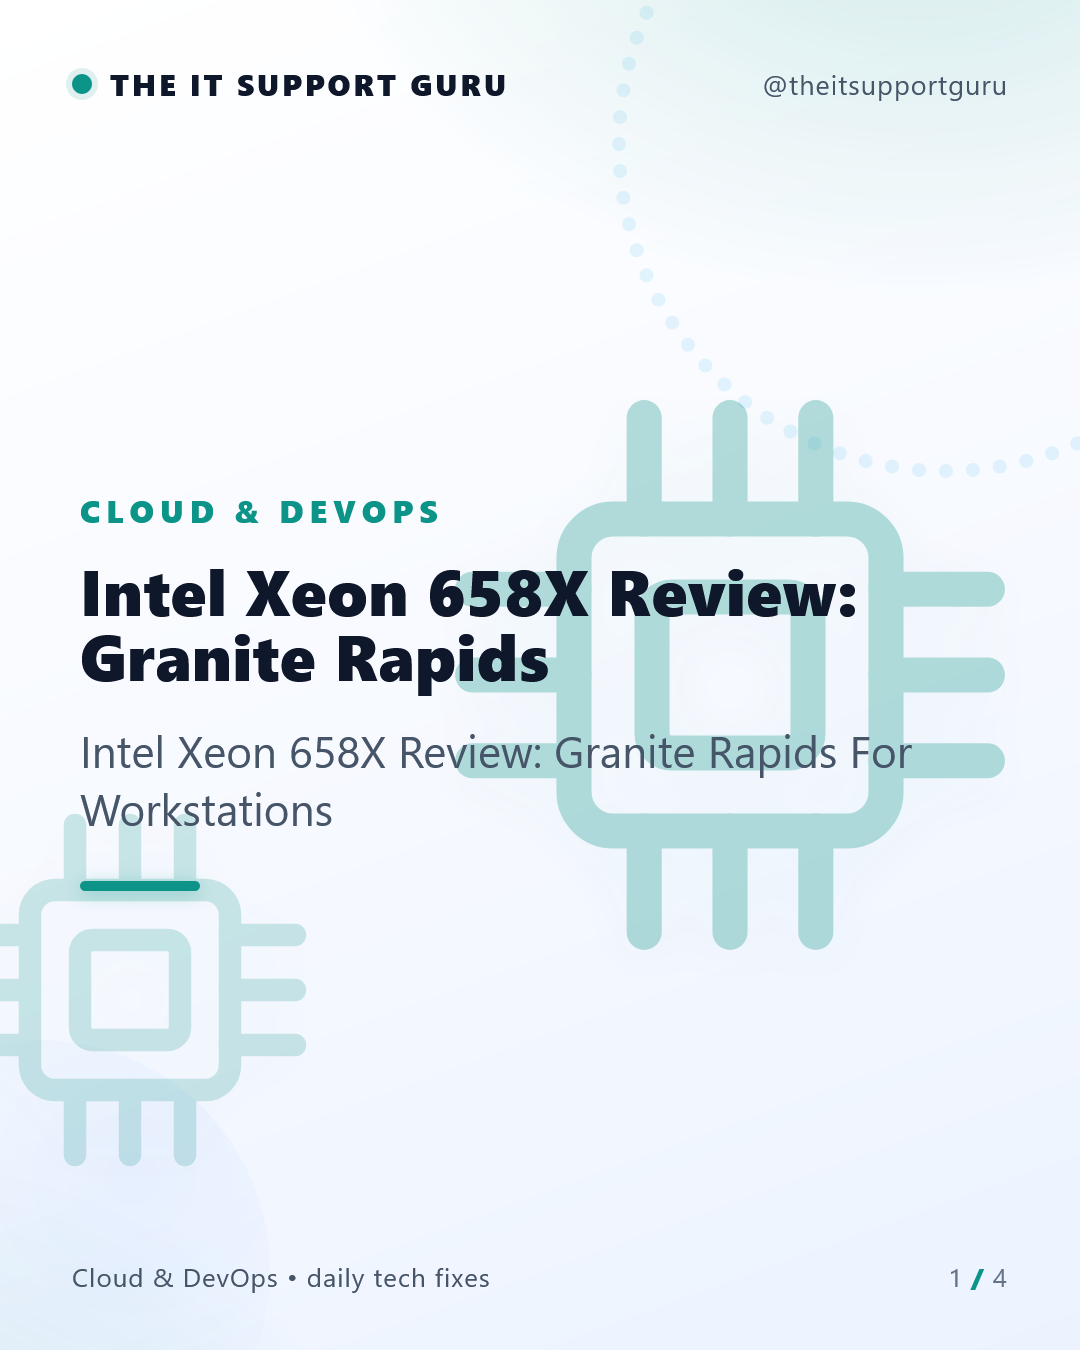
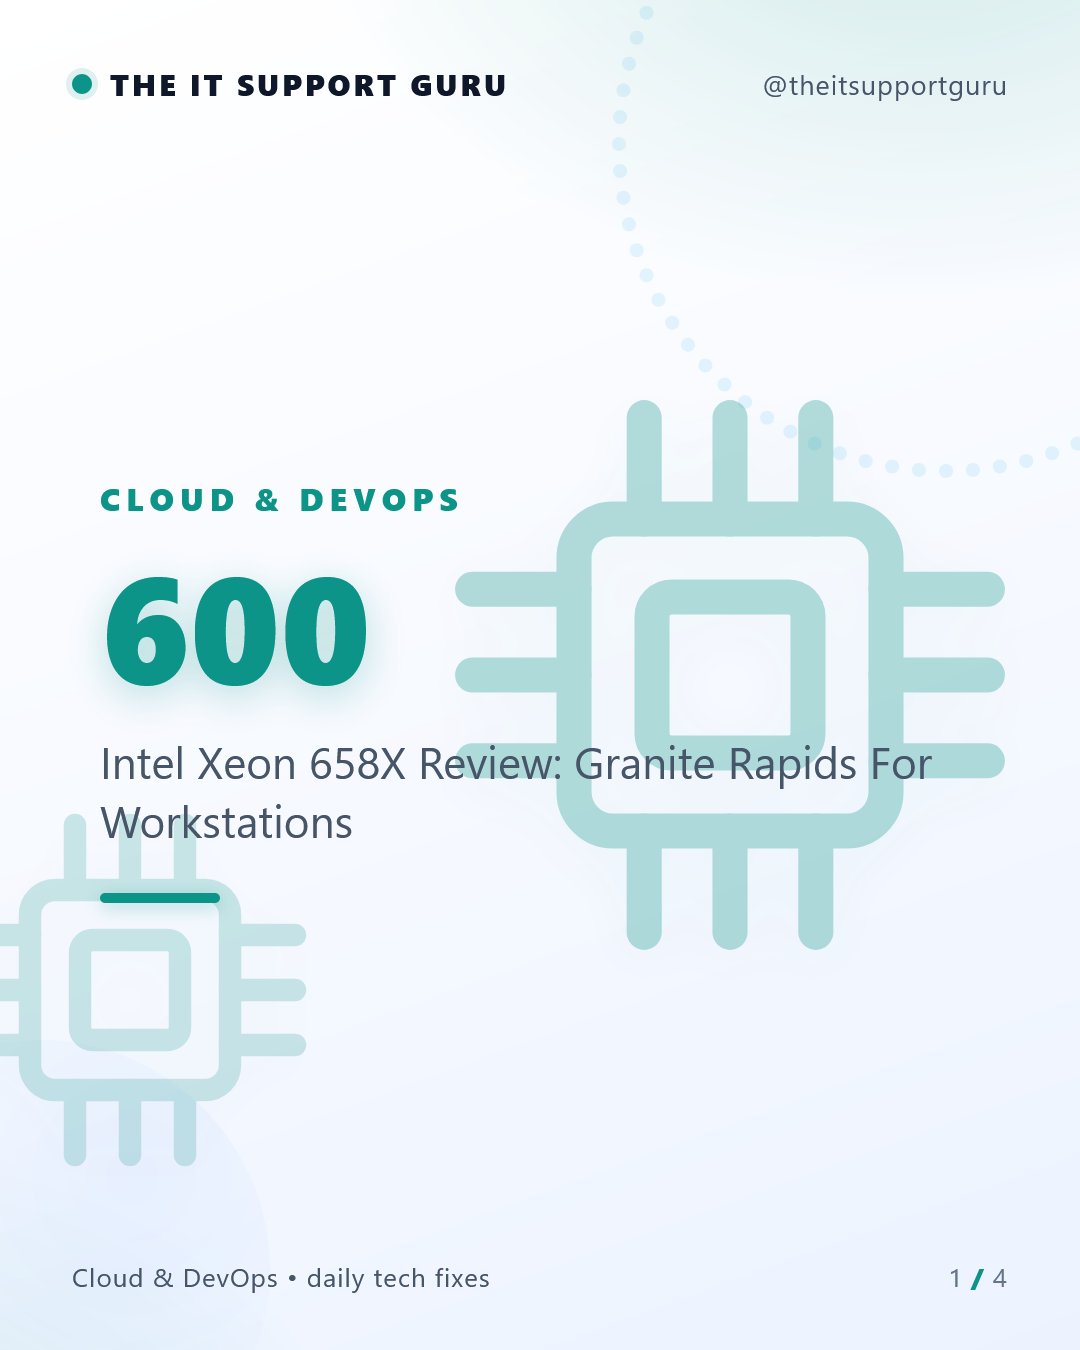
increase to 4 cards/day (postsPerDay 4, 20:00 slot, 4-slot generator loop)

Changed region(s): [[0.0611, 0.3422, 0.8556, 0.6222], [0.0611, 0.6533, 0.2139, 0.6844]]

diff --git a/src/ig-generator.js b/src/ig-generator.js
@@ -512,21 +512,20 @@ export function generateIgPlan() {
   // laptops, security. (it-support/cloud rotate in on the 25% wildcard days.)
   const CORE = ["ai", "gadgets", "apple", "hardware", "security"];
   const dayNicheOrder = rnd() < 0.75 ? shuffle(CORE, rnd) : shuffle(nicheIds, rnd);
-  const formats = shuffle(["carousel", "image", "routine"], rnd);
-  // Don't pick an evergreen image card for slot 0 — the news lead must be a
-  // real story. If slot 0 landed on "image", that's fine (newsCard); if it
-  // landed on "routine", swap the routine out for the slot-2 default.
+  // Four daily posts, four formats: no format repeats more than twice, and the
+  // news lead at slot 0 must never be an evergreen routine.
+  const formats = shuffle(["carousel", "image", "routine", "carousel"], rnd);
   if (formats[0] === "routine") {
     const t = formats[2];
     formats[2] = formats[0];
     formats[0] = t;
   }
-  // Slots 0 and 1 are both fresh, fact-rich news posters (slot 0 single-card,
-  // slot 1 a full swipe-story). Slot 2 is the helpful evergreen how-to.
-  const modes = ["news", "news", "evergreen"];
+  // Slots 0-2 are fresh, fact-rich news posters (slot 0 single-card, slots 1-2
+  // full swipe-stories). Slot 3 is the helpful evergreen how-to/tip/routine.
+  const modes = ["news", "news", "news", "evergreen"];
 
   const posts = [];
-  for (let slot = 0; slot < 3; slot++) {
+  for (let slot = 0; slot < 4; slot++) {
     const nicheId = dayNicheOrder[slot];
     const format = formats[slot];
     const topics = topicsForNiche(nicheId);
